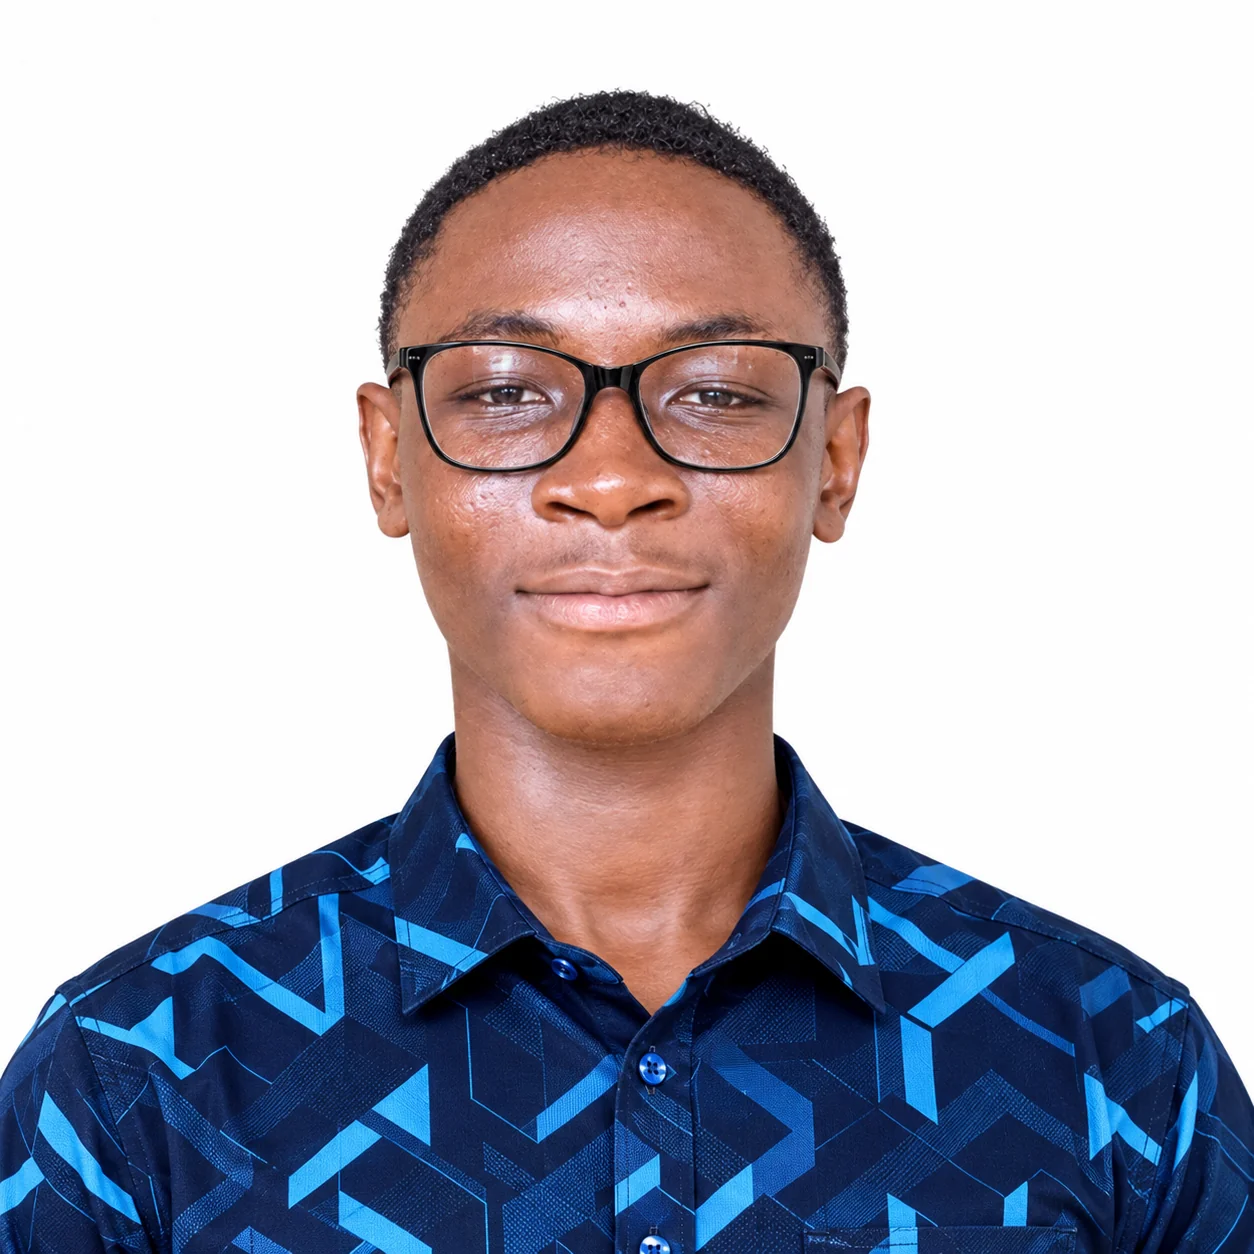
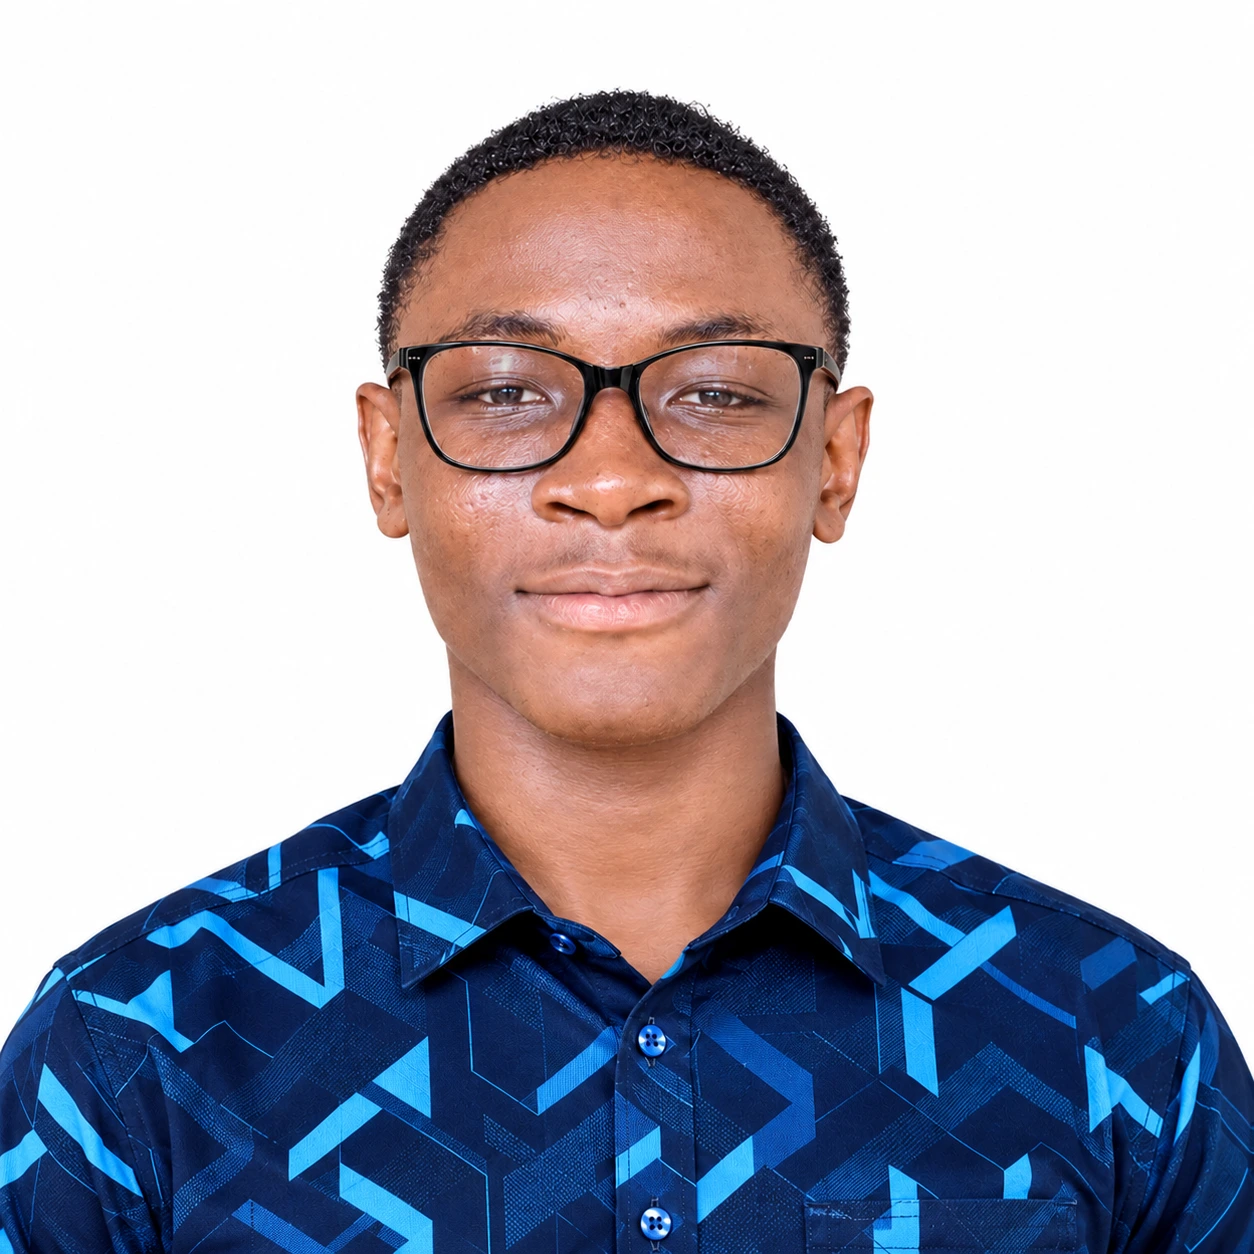
chore(vps): remove Vercel artifacts, harden VPS configuration & update hero portrait
- Remove vercel.json, .vercelignore, .vercel/, and api/ serverless router
- Clean Vercel environment checks from includes/config.php and support html/www parent directories for out-of-root inquiry storage
- Harden .htaccess with clean URLs for all primary routes, Gzip compression, long-lived static caching, and /includes/ boundary protection
- Update hero portrait (assets/images/engineer-baah-portrait.webp, 1254x1254) and Person JSON-LD image URL

diff --git a/includes/config.php b/includes/config.php
@@ -38,14 +38,11 @@ $appRoot = str_replace('\\', '/', realpath(__DIR__ . '/..') ?: dirname(__DIR__))
 $docRoot = !empty($_SERVER['DOCUMENT_ROOT']) ? str_replace('\\', '/', realpath($_SERVER['DOCUMENT_ROOT']) ?: $_SERVER['DOCUMENT_ROOT']) : '';
 
 $basePath = '';
-if (!empty(getenv('VERCEL')) || !empty($_SERVER['VERCEL'])) {
-    // Vercel serverless functions execute at root origin
-    $basePath = '';
-} elseif ($docRoot !== '' && strpos($appRoot, $docRoot) === 0) {
+if ($docRoot !== '' && strpos($appRoot, $docRoot) === 0) {
     $basePath = substr($appRoot, strlen($docRoot));
 } elseif (!empty($_SERVER['SCRIPT_NAME'])) {
     $scriptDir = str_replace('\\', '/', dirname($_SERVER['SCRIPT_NAME']));
-    $basePath = preg_replace('#/(services|includes|api)$#i', '', $scriptDir);
+    $basePath = preg_replace('#/(services|includes)$#i', '', $scriptDir);
 }
 $basePath = rtrim(str_replace('\\', '/', $basePath), '/');
 define('BASE_URL', $basePath === '/' ? '' : $basePath);
@@ -99,15 +96,7 @@ function get_inquiry_storage_path(): ?string {
         }
     }
 
-    // 3. Serverless cloud environment detection (Vercel, AWS Lambda, ephemeral /tmp)
-    if (!empty(getenv('VERCEL')) || !empty($_SERVER['VERCEL'])) {
-        $tmp = rtrim(str_replace('\\', '/', sys_get_temp_dir()), '/');
-        if (is_dir($tmp) && is_writable($tmp)) {
-            return $tmp . '/inquiries.jsonl';
-        }
-    }
-
-    // 4. Dynamic resolution: strictly outside DOCUMENT_ROOT and outside public app root
+    // 3. Dynamic resolution: strictly outside DOCUMENT_ROOT and outside public app root
     $appRoot = str_replace('\\', '/', realpath(__DIR__ . '/..') ?: dirname(__DIR__));
     $docRoot = !empty($_SERVER['DOCUMENT_ROOT']) ? str_replace('\\', '/', realpath($_SERVER['DOCUMENT_ROOT']) ?: $_SERVER['DOCUMENT_ROOT']) : '';
 
@@ -116,7 +105,7 @@ function get_inquiry_storage_path(): ?string {
     // Candidate A: Dedicated storage directory outside web root
     if ($docRoot !== '') {
         $parentDoc = dirname($docRoot);
-        if (in_array(strtolower(basename($parentDoc)), ['htdocs', 'public', 'public_html'], true)) {
+        if (in_array(strtolower(basename($parentDoc)), ['htdocs', 'public', 'public_html', 'html', 'www'], true)) {
             $parentDoc = dirname($parentDoc);
         }
         if ($parentDoc !== '' && $parentDoc !== $docRoot) {
@@ -127,7 +116,7 @@ function get_inquiry_storage_path(): ?string {
 
     // Candidate B: Dedicated storage directory sibling to app root or grandparent
     $parentApp = dirname($appRoot);
-    if (in_array(strtolower(basename($parentApp)), ['htdocs', 'public', 'public_html'], true)) {
+    if (in_array(strtolower(basename($parentApp)), ['htdocs', 'public', 'public_html', 'html', 'www'], true)) {
         $parentApp = dirname($parentApp);
     }
     if ($parentApp !== '' && $parentApp !== $appRoot) {
@@ -167,13 +156,11 @@ function asset_url(string $path): string {
     $cleanPath = ltrim($path, '/');
     $fullPath = __DIR__ . '/../' . $cleanPath;
     if (file_exists($fullPath)) {
-        $mtime = (int)filemtime($fullPath);
-        // Serverless runtimes (e.g. Vercel Lambda) clamp filemtime to 1540000000;
-        // use a fast content hash for CSS/JS or clamped mtimes so cache-busting always updates.
-        if ($mtime <= 1540000000 || preg_match('/\.(css|js)$/i', $cleanPath)) {
+        // Use a fast content hash for CSS/JS so browser and CDN caches bust automatically on deploy
+        if (preg_match('/\.(css|js)$/i', $cleanPath)) {
             $version = substr((string)md5_file($fullPath), 0, 10);
         } else {
-            $version = (string)$mtime;
+            $version = (string)filemtime($fullPath);
         }
     } else {
         $version = '2.1';

diff --git a/index.php b/index.php
@@ -80,8 +80,8 @@ $disciplines = get_core_disciplines();
                 src="<?= asset_url('assets/images/engineer-baah-portrait.webp') ?>"
                 alt="Engineer Baah — Isaac Brem Baah, Creative Engineer"
                 class="hero-image"
-                width="900"
-                height="900"
+                width="1254"
+                height="1254"
                 fetchpriority="high"
                 loading="eager"
               >

diff --git a/includes/header.php b/includes/header.php
@@ -108,7 +108,7 @@ if (!isset($ogImage)) {
           "jobTitle" => "Creative Engineer",
           "description" => SITE_BIO,
           "url" => PRODUCTION_ORIGIN . "/",
-          "image" => canonical_url('assets/images/baah-portrait.webp'),
+          "image" => canonical_url('assets/images/engineer-baah-portrait.webp'),
           "email" => SITE_EMAIL,
           "telephone" => "+233535744202",
           "address" => [
